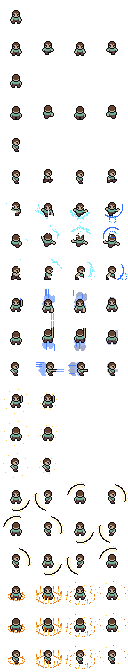
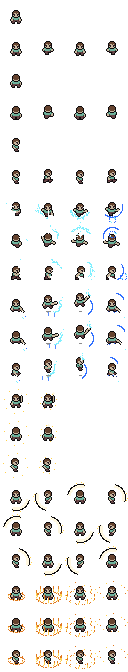
Refactor player attack mechanics and character art
- Removed LUNGE_SPEED constant and adjusted attack logic in player.gd to simplify hitbox positioning.
- Updated _hitbox_offset function to eliminate thrust parameter, streamlining hitbox calculations for attacks.
- Modified character_cc0.png to improve character visuals.
- Revised character_art.gd to enhance thrust effects with new color constants for better visual distinction during attacks.

diff --git a/game/player/CLAUDE.md b/game/player/CLAUDE.md
@@ -97,22 +97,22 @@ pickup is back on the next visit - rooms keep no state yet.
 
 The player's side of the fight is three attacks on the one attack button. A
 press starts the swing (`ATTACK_POWER` 5); pressing again during it, or within
-`COMBO_GRACE_SECONDS` after, chains the thrust (`attack2` rows 9-11 of the cast
-sheet, `THRUST_POWER` 7), which lunges a step forward (`LUNGE_SPEED`, decayed by
-the same friction that roots attacks) and parks the Hitbox further out to match
-its visibly longer blade. **A press mid-attack is buffered, never dropped** -
+`COMBO_GRACE_SECONDS` after, chains the second hit (`attack2` rows 9-11 of the
+cast sheet, `THRUST_POWER` 7 - the name is historical, the move is now a rising
+slash). It is rooted like the swing and shares the swing's hitbox: its arc
+covers the same reach, and the jump in its art is the movement. **A press mid-attack is buffered, never dropped** -
 mashing alternates swing-thrust cleanly, and a dropped press reads as the game
 eating the button. Getting hit deliberately does NOT break the combo: the game
 has no hitstun, so a silently swallowed buffer would read as dropped input, and
-melee happens inside enemy contact where hits are constant - the thrust's cost
-is commitment (rooted through two animations, lunging toward danger), not a
-hidden reset. Damage goes through a Hitbox Area2D that `_start_attack()` parks
+melee happens inside enemy contact where hits are constant - the second hit's
+cost is commitment (rooted through two animations), not a hidden reset. Damage goes through a Hitbox Area2D that `_start_attack()` parks
 one step ahead of the body in the facing direction; it stays live for the whole
 animation but a ledger (`_swing_hits`) lands each attack once per enemy - so a
-24 HP guard dies to one full mash cycle (5+7+5+7). The thrust's sparks are
-tinted per character by `_spark_hex` in character_art.gd: the hair colour
+24 HP guard dies to one full mash cycle (5+7+5+7). The spark colour every
+character carries comes from `_spark_hex` in character_art.gd: the hair colour
 raised to flash intensity (near-black hair would vanish on dark floors),
-`SRC_SPARK` gold where a bald head has none. Per-character health and attack
+`SRC_SPARK` gold where a bald head has none; it tints the swing, the charge
+sparks and the wildfire. Per-character health and attack
 stats are planned; they will join the roster recipe the way looks did.
 
 The swing's art is **Lightning Edge** (rows 6-8 of the sheet): the old outlined
@@ -125,14 +125,17 @@ spark darkened - so Mayar swings violet, Anas gold. Everything stays inside the
 32px frame; on the down row the bloom sits 3px above the hitbox centre because
 the centre itself is on the frame's last row.
 
-The thrust's art is **Afterimage Dash** (rows 9-11): a bare white blade with a
-blue halo, translucent blue afterimages of the previous poses trailing behind
-the lunge, speed lines, and two pixels of dust on the recover frame. Its blues
-(`SRC_DASH_*`) are deliberately fixed for every character - the swing reads as
-the character's own colour, the thrust as speed - and sit one step off the
-volt values so the recolour, which goes by exact hex, can tell them apart. The
-ghosts are the first translucent pixels in the sheet: restyle() now keeps each
-pixel's alpha when it recolours, where it used to rebuild the pixel opaque.
+The second hit's art is **Rising Dragon** (rows 9-11): a launcher. Crouch in a
+wide stance with the blade low, an uppercut slash that lifts the body three then
+five pixels with a shadow painted on the floor beneath, blade straight overhead
+at the apex, then a landing squat with dust. The bodies are NEW poses, not
+reused frames: a pose kit takes the idle body's head, torso and legs, draws the
+arms fresh for each frame and regenerates the outline. Its blues (`SRC_THRUST_*`)
+are deliberately fixed for every character - the swing reads as the character's
+own colour, the launcher as the weapon's - and sit one step off the volt values
+so the recolour, which goes by exact hex, can tell them apart. The floor shadow
+(`SRC_SHADOW`) is translucent: restyle() keeps each pixel's alpha when it
+recolours, where it used to rebuild the pixel opaque.
 
 Both were baked by a script from the pristine CC0 rows rather than drawn by
 hand, so `character.aseprite` no longer matches the PNG; the PNG is the truth.
